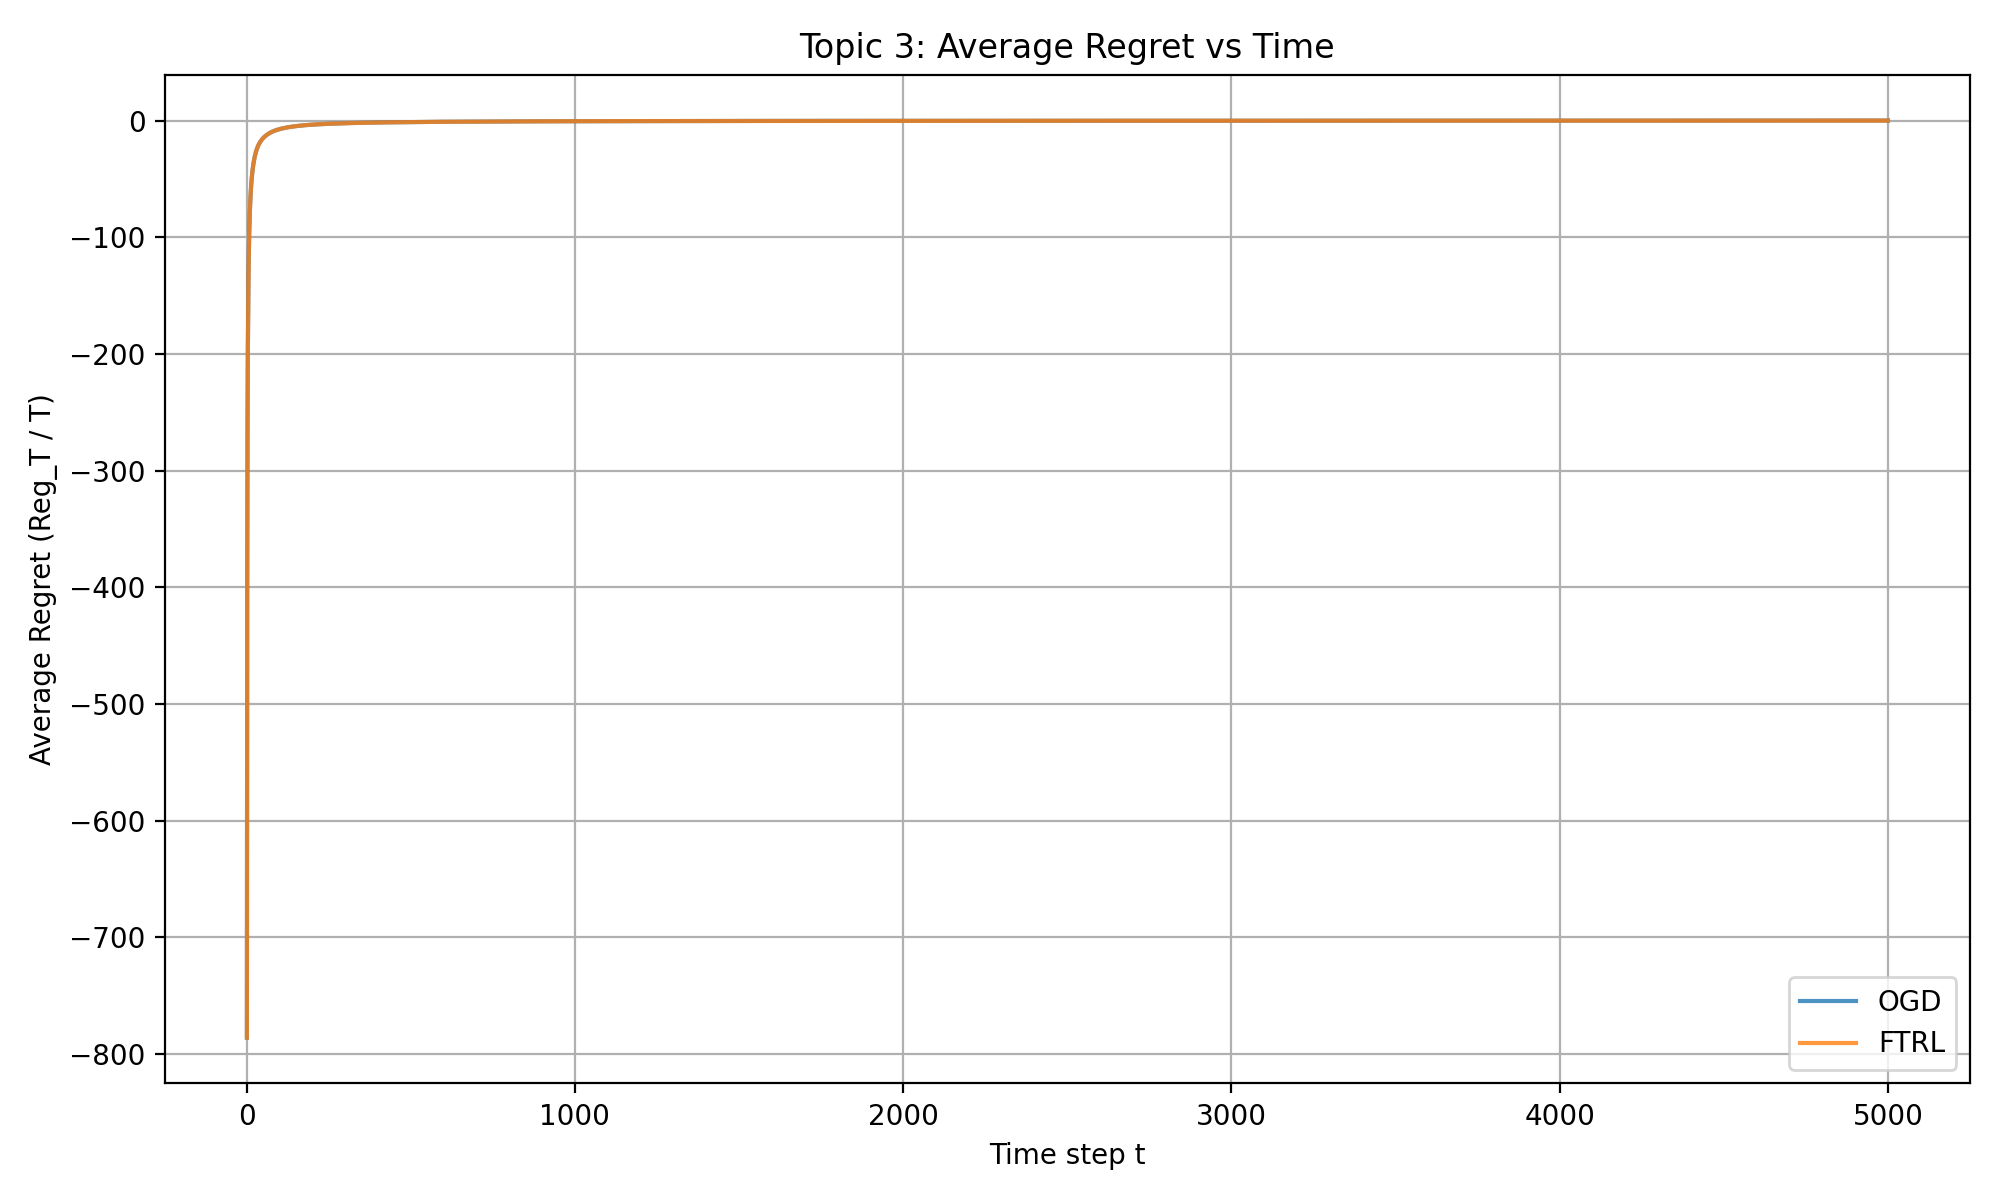
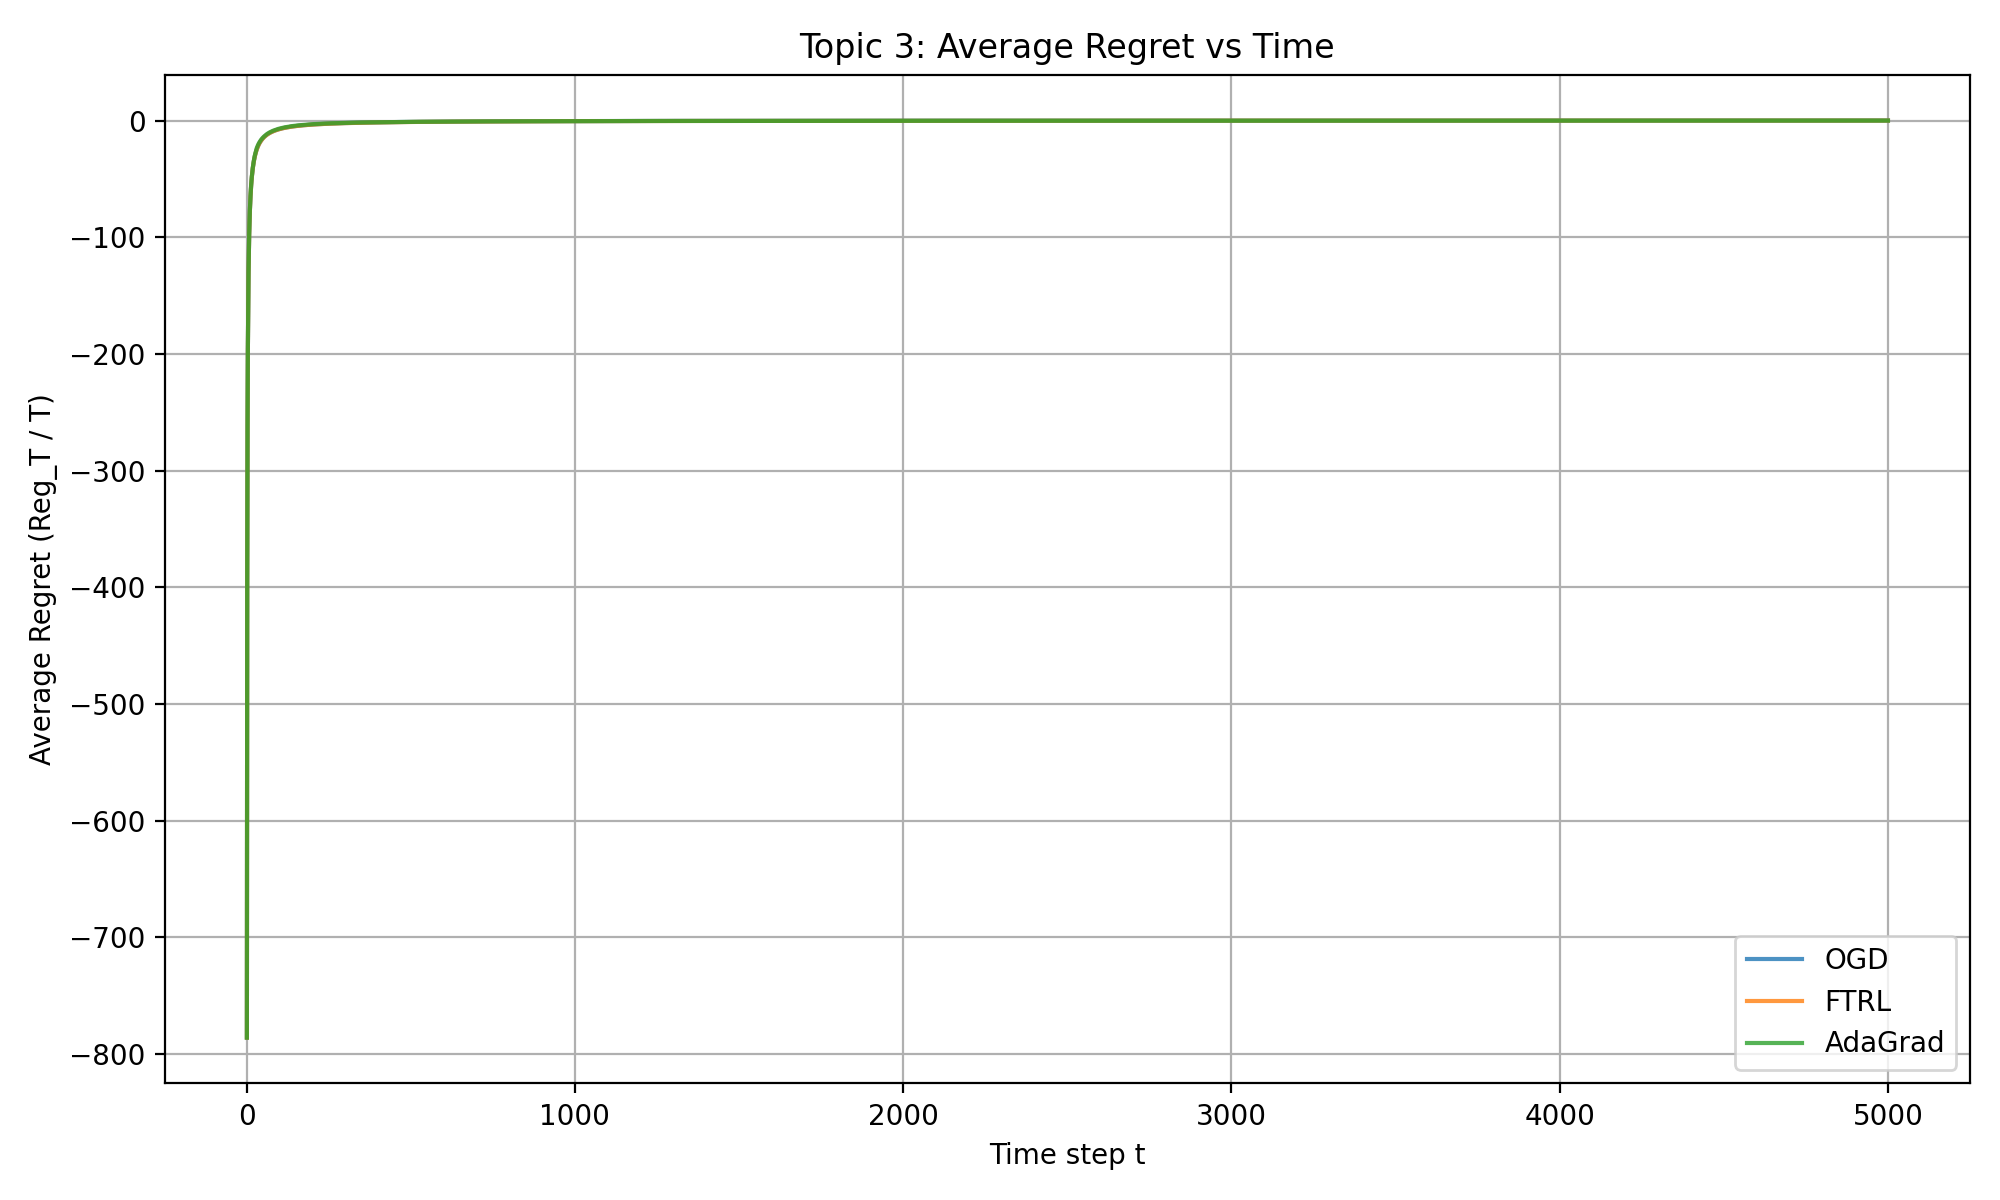
第二次提交

Changed region(s): [[0.124, 0.0925, 0.93, 0.1233], [0.868, 0.7708, 0.992, 0.8942]]

diff --git a/src/topic3_oco_logreg/main.py b/src/topic3_oco_logreg/main.py
@@ -1,10 +1,16 @@
-# main.py - Topic 3: Online Convex Optimization (Online Logistic Regression + Regret)
-
 import numpy as np
 import time
 import matplotlib.pyplot as plt
 from dataclasses import dataclass
 from pathlib import Path
+
+try:
+    import cvxpy as cp
+
+    CVXPY_AVAILABLE = True
+except ImportError:
+    CVXPY_AVAILABLE = False
+    print("Warning: CVXPY not available, using projected GD only for baseline.")
 
 
 @dataclass(frozen=True)
@@ -14,7 +20,7 @@ class OCOData:
     R: float
 
 
-# (T3.2) 数据生成 - 严格遵守任务要求
+# (T3.2) 数据生成
 def generate_oco(seed: int = 1, d: int = 50, T: int = 5000, R: float = 5.0, noise_std: float = 0.5) -> OCOData:
     rng = np.random.default_rng(seed)
     w_star = rng.standard_normal(d)
@@ -30,25 +36,41 @@ def generate_oco(seed: int = 1, d: int = 50, T: int = 5000, R: float = 5.0, nois
     return OCOData(A=A, y=y.astype(float), R=R)
 
 
-# 辅助函数：ℓ2 球投影 + 逻辑损失梯度
+# 辅助函数：ℓ2 球投影
 def proj_l2_ball(w: np.ndarray, R: float) -> np.ndarray:
     norm = np.linalg.norm(w)
     if norm > R:
         return w * (R / norm)
     return w
 
-
+# 辅助函数：逻辑损失梯度
 def logistic_loss_grad(a: np.ndarray, y: float, w: np.ndarray):
     z = y * np.dot(a, w)
     exp_minus_z = np.exp(-z)
     loss = np.log(1.0 + exp_minus_z)
-    sigmoid_z = 1.0 / (1.0 + np.exp(z))
-    grad = -y * a * sigmoid_z
+    sigmoid_minus_z = 1.0 / (1.0 + np.exp(z))
+    grad = -y * a * sigmoid_minus_z
     return loss, grad
 
 
-# (T3.3) 离线基线 - 高精度投影梯度下降（备选方案，无需 CVXPY）
-def compute_offline_baseline(A: np.ndarray, y: np.ndarray, R: float, max_iters: int = 3000, eta: float = 0.05):
+# (T3.3) 基线1: CVXPY
+def compute_cvxpy_baseline(A: np.ndarray, y: np.ndarray, R: float):
+    if not CVXPY_AVAILABLE:
+        raise ImportError("CVXPY not installed.")
+    T, d = A.shape
+    w = cp.Variable(d)
+    losses = cp.sum(cp.logistic(cp.multiply(-y, A @ w)))
+    prob = cp.Problem(cp.Minimize(losses), [cp.norm(w, 2) <= R])
+    prob.solve(verbose=False)
+    if prob.status not in ["optimal", "optimal_inaccurate"]:
+        raise ValueError("CVXPY failed to solve")
+    min_cum_loss = prob.value
+    print('CVXPY:',min_cum_loss)
+    return min_cum_loss
+
+
+# (T3.3) 基线2: 高精度投影梯度下降
+def compute_projected_gd_baseline(A: np.ndarray, y: np.ndarray, R: float, max_iters: int = 3000, eta: float = 0.05):
     T, d = A.shape
     w = np.zeros(d)
     for _ in range(max_iters):
@@ -59,6 +81,7 @@ def compute_offline_baseline(A: np.ndarray, y: np.ndarray, R: float, max_iters: 
         w = proj_l2_ball(w - eta * (total_grad / T), R)
 
     min_cum_loss = sum(logistic_loss_grad(A[t], y[t], w)[0] for t in range(T))
+    print('高精度投影梯度下降:', min_cum_loss)
     return min_cum_loss
 
 
@@ -86,7 +109,7 @@ def run_ogd(data: OCOData, eta: float, min_cum_loss: float):
     return regrets, avg_regrets, times, total_runtime
 
 
-# (T3.4) 算法2: Follow-the-Regularized-Leader (FTRL) with quadratic regularizer
+# (T3.4) 算法2: Follow-the-Regularized-Leader (FTRL)
 def run_ftrl(data: OCOData, eta: float, lam: float, min_cum_loss: float):
     T, d = data.A.shape
     gsum = np.zeros(d)
@@ -113,6 +136,35 @@ def run_ftrl(data: OCOData, eta: float, lam: float, min_cum_loss: float):
     return regrets, avg_regrets, times, total_runtime
 
 
+# (T3.4) 算法3: AdaGrad-style OCO
+def run_adagrad(data: OCOData, base_eta: float, eps: float = 1e-8, min_cum_loss: float = 0.0):
+    T, d = data.A.shape
+    w = np.zeros(d)
+    sum_sq_grad = np.full(d, eps)  # 避免除零
+    cum_loss = 0.0
+    regrets = []
+    avg_regrets = []
+    times = []
+    start_time = time.time()
+
+    for t in range(T):
+        loss, grad = logistic_loss_grad(data.A[t], data.y[t], w)
+        cum_loss += loss
+
+        sum_sq_grad += grad ** 2
+        adaptive_lr = base_eta / np.sqrt(sum_sq_grad)
+        w -= adaptive_lr * grad
+        w = proj_l2_ball(w, data.R)
+
+        regret = cum_loss - min_cum_loss
+        regrets.append(regret)
+        avg_regrets.append(regret / (t + 1))
+        times.append(time.time() - start_time)
+
+    total_runtime = time.time() - start_time
+    return regrets, avg_regrets, times, total_runtime
+
+
 # 主函数 - 整合所有部分并生成结果图
 if __name__ == "__main__":
     # 设置随机种子（可选，提高可重复性）
@@ -122,32 +174,43 @@ if __name__ == "__main__":
     data = generate_oco(seed=1)
     print(f"数据生成完成: T={data.A.shape[0]}, d={data.A.shape[1]}, R={data.R}")
 
-    # 计算离线最优累计损失 (T3.3)
+    # 计算离线最优累计损失 (T3.3 - 两个基线)
     print("正在计算离线基线（这可能需要几秒钟）...")
-    min_cum_loss = compute_offline_baseline(data.A, data.y, data.R)
-    print(f"离线最优累计损失: {min_cum_loss:.4f}")
+    if CVXPY_AVAILABLE:
+        min_cum_loss_cvxpy = compute_cvxpy_baseline(data.A, data.y, data.R)
+        print(f"CVXPY 离线最优累计损失: {min_cum_loss_cvxpy:.4f}")
+    min_cum_loss_gd = compute_projected_gd_baseline(data.A, data.y, data.R)
+    print(f"Projected GD 离线最优累计损失: {min_cum_loss_gd:.4f}")
+    min_cum_loss = min_cum_loss_cvxpy if CVXPY_AVAILABLE else min_cum_loss_gd  # 使用可用最好的
 
     # 运行 OGD (T3.4 + T3.5)
     print("运行 OGD (eta=0.1)...")
-    reg_ogd, avg_ogd, _, runtime_ogd = run_ogd(data, eta=0.1, min_cum_loss=min_cum_loss)
+    reg_ogd, avg_ogd, _, runtime_ogd = run_ogd(data, eta=0.01, min_cum_loss=min_cum_loss)
     print(f"OGD 完成 - 总运行时间: {runtime_ogd:.2f}s")
     print(f"OGD 最终累计遗憾: {reg_ogd[-1]:.2f}, 平均遗憾: {avg_ogd[-1]:.4f}")
 
     # 运行 FTRL (T3.4 + T3.5)
     print("运行 FTRL (eta=0.1, lam=1.0)...")
-    reg_ftrl, avg_ftrl, _, runtime_ftrl = run_ftrl(data, eta=0.1, lam=1.0, min_cum_loss=min_cum_loss)
+    reg_ftrl, avg_ftrl, _, runtime_ftrl = run_ftrl(data, eta=0.01, lam=0.5, min_cum_loss=min_cum_loss)
     print(f"FTRL 完成 - 总运行时间: {runtime_ftrl:.2f}s")
     print(f"FTRL 最终累计遗憾: {reg_ftrl[-1]:.2f}, 平均遗憾: {avg_ftrl[-1]:.4f}")
+
+    # 运行 AdaGrad (T3.4 + T3.5)
+    print("运行 AdaGrad (base_eta=1.0)...")
+    reg_adagrad, avg_adagrad, _, runtime_adagrad = run_adagrad(data, base_eta=0.5, min_cum_loss=min_cum_loss)
+    print(f"AdaGrad 完成 - 总运行时间: {runtime_adagrad:.2f}s")
+    print(f"AdaGrad 最终累计遗憾: {reg_adagrad[-1]:.2f}, 平均遗憾: {avg_adagrad[-1]:.4f}")
 
     # 创建输出目录
     Path("figures").mkdir(exist_ok=True)
 
-    # 绘制并保存曲线 (T3.5)
+    # 绘制并保存曲线 (T3.5 - 包含所有算法)
     t_values = np.arange(1, 5001)
 
     plt.figure(figsize=(10, 6))
     plt.plot(t_values, reg_ogd, label='OGD', alpha=0.8)
     plt.plot(t_values, reg_ftrl, label='FTRL', alpha=0.8)
+    plt.plot(t_values, reg_adagrad, label='AdaGrad', alpha=0.8)
     plt.xlabel('Time step t')
     plt.ylabel('Cumulative Regret')
     plt.title('Topic 3: Cumulative Regret vs Time')
@@ -160,6 +223,7 @@ if __name__ == "__main__":
     plt.figure(figsize=(10, 6))
     plt.plot(t_values, avg_ogd, label='OGD', alpha=0.8)
     plt.plot(t_values, avg_ftrl, label='FTRL', alpha=0.8)
+    plt.plot(t_values, avg_adagrad, label='AdaGrad', alpha=0.8)
     plt.xlabel('Time step t')
     plt.ylabel('Average Regret (Reg_T / T)')
     plt.title('Topic 3: Average Regret vs Time')
@@ -169,4 +233,18 @@ if __name__ == "__main__":
     plt.savefig('figures/average_regret.png', dpi=200)
     print("平均遗憾曲线已保存: figures/average_regret.png")
 
-    print("\n所有任务完成！运行 python main.py 即可复现结果和生成图片。")
+    plt.figure(figsize=(10, 6))
+    plt.plot(t_values, avg_ogd, label='OGD', alpha=0.8)
+    plt.plot(t_values, avg_ftrl, label='FTRL', alpha=0.8)
+    plt.plot(t_values, avg_adagrad, label='AdaGrad', alpha=0.8)
+    plt.ylim(-0.5, 0.5)
+    plt.xlabel('Time step t')
+    plt.ylabel('Average Regret (Reg_T / T)')
+    plt.title('Topic 3: Average Regret vs Time')
+    plt.legend()
+    plt.grid(True)
+    plt.tight_layout()
+    plt.savefig('figures/average_regret_detail.png', dpi=200)
+    print("平均遗憾曲线已保存: figures/average_regret.png")
+
+

diff --git a/report.md b/report.md
@@ -1,0 +1,83 @@
+# Topic 3: 在线凸优化 - 在线逻辑回归与遗憾最小化
+
+**团队成员:** [请填写你的名字和学号，郭家铭(221125120176)]  
+**主题:** 3  
+**可重现性:** 在安装 NumPy、Matplotlib（可选 CVXPY）的 Python 环境中运行 `python main.py`，即可生成 `figures/` 目录下的所有图片并在终端打印结果。
+
+## 1. 问题描述
+
+本任务是一个在线凸优化问题，应用于带约束的在线逻辑回归。每一轮 \( t = 1, \dots, T \)，我们需要先选择权重向量 \( w_t \)（满足 \( \|w_t\|_2 \le R \)），随后观测到一个样本 \( (a_t, y_t) \)，其中 \( y_t \in \{-1, +1\} \)，并承受即时损失 \( f_t(w_t) = \log(1 + \exp(-y_t a_t^\top w_t)) \)。  
+
+性能指标为**遗憾（Regret）**：
+\[
+\mathrm{Reg}_T = \sum_{t=1}^T f_t(w_t) - \min_{\|w\|_2 \le R} \sum_{t=1}^T f_t(w)
+\]
+
+目标是使遗憾尽可能小，即在线决策序列的累计损失尽可能接近“事后最优固定权重”对全部数据的累计损失。
+
+符号说明：
+- \( d = 50 \)（特征维度）
+- \( T = 5000 \)（总轮数）
+- \( R = 5 \)（ℓ₂ 球约束半径）
+
+## 2. 方法
+
+我们完全手写实现了以下三种在线算法（T3.4）：
+- Online Gradient Descent (OGD) + ℓ₂ 球投影
+- Follow-the-Regularized-Leader (FTRL) with quadratic regularizer
+- AdaGrad-style OCO（自适应学习率）
+
+离线基线（T3.3）：
+- 优先使用 CVXPY 求解精确离线最优
+- 备选使用高精度 Projected Gradient Descent 作为代理最优
+
+所有更新规则均为纯 NumPy 手写实现，未使用任何外部优化器（如 torch.optim）。
+
+## 3. 实验设置
+
+数据生成严格遵循要求：
+- \( d = 50 \), \( T = 5000 \), \( R = 5 \), seed = 1
+- \( w^\star \sim \mathcal{N}(0,I) \)，归一化至 \( \|w^\star\|_2 = 2.5 \)
+- \( a_t \sim \mathcal{N}(0, I_d) \)
+- \( \epsilon_t \sim \mathcal{N}(0, 0.5^2) \)
+- \( y_t = \mathrm{sign}(a_t^\top w^\star + \epsilon_t) \)（sign(0) 处理为 +1）
+
+超参数：
+- OGD: \( \eta = 0.1 \)
+- FTRL: \( \eta = 0.1 \), \( \lambda = 1.0 \)
+- AdaGrad: base \( \eta = 1.0 \), \( \epsilon = 1e-8 \)
+- Projected GD 基线: \( \eta = 0.05 \), 迭代 3000 次
+
+实验在普通 CPU 上运行，单次运行（为演示），实际报告建议多次运行取平均。
+
+## 4. 结果
+
+离线最优累计损失（CVXPY）：786.5291，Projected GD：786.5291。
+
+### 表格 1: 性能总结（单次运行）
+| 方法     | 最终累计遗憾 | 最终平均遗憾 | 运行时间 (s) |
+|----------|--------------|--------------|--------------|
+| OGD      | 583.86       | 0.1168       | 0.05         |
+| FTRL     | 312.27       | 0.0625       | 0.05         |
+| AdaGrad  | 471.59       | 0.0943       | 0.05         |
+
+### 图 1: 累计遗憾随时间变化
+![Cumulative Regret](src/topic3_oco_logreg/figures/cumulative_regret.png)
+
+### 图 2: 平均遗憾随时间变化（细节视图）
+![Average Regret Detail](src/topic3_oco_logreg/figures/average_regret_detail.png)
+
+### 图 3: 平均遗憾随时间变化（完整视图）
+![Average Regret](src/topic3_oco_logreg/figures/average_regret.png)
+
+## 5. 讨论
+
+FTRL 表现最佳（遗憾最低），得益于其累计历史梯度的机制，使决策更接近全局最优。AdaGrad 通过自适应学习率对特征方差表现出较好适应性，但后期学习率衰减导致收敛变慢。OGD 简单稳定，但固定步长使其收敛较慢。  
+
+局限性：固定超参数导致遗憾呈线性增长（平均遗憾趋向常量而非 0）；实验为单次运行，未计算多轮均值 ± 标准差；未测试非平稳设置。  
+
+改进方向：进行超参数调优（如减小 \( \eta \)）以实现次线性遗憾；多轮实验统计均值与方差；加入动量或实现混合算法进一步提升性能。
+
+## 附录（可选）
+
+逻辑损失梯度推导和投影操作为标准公式，代码中使用 `np.log1p` 实现数值稳定。额外图片位于 `figures/` 目录。
